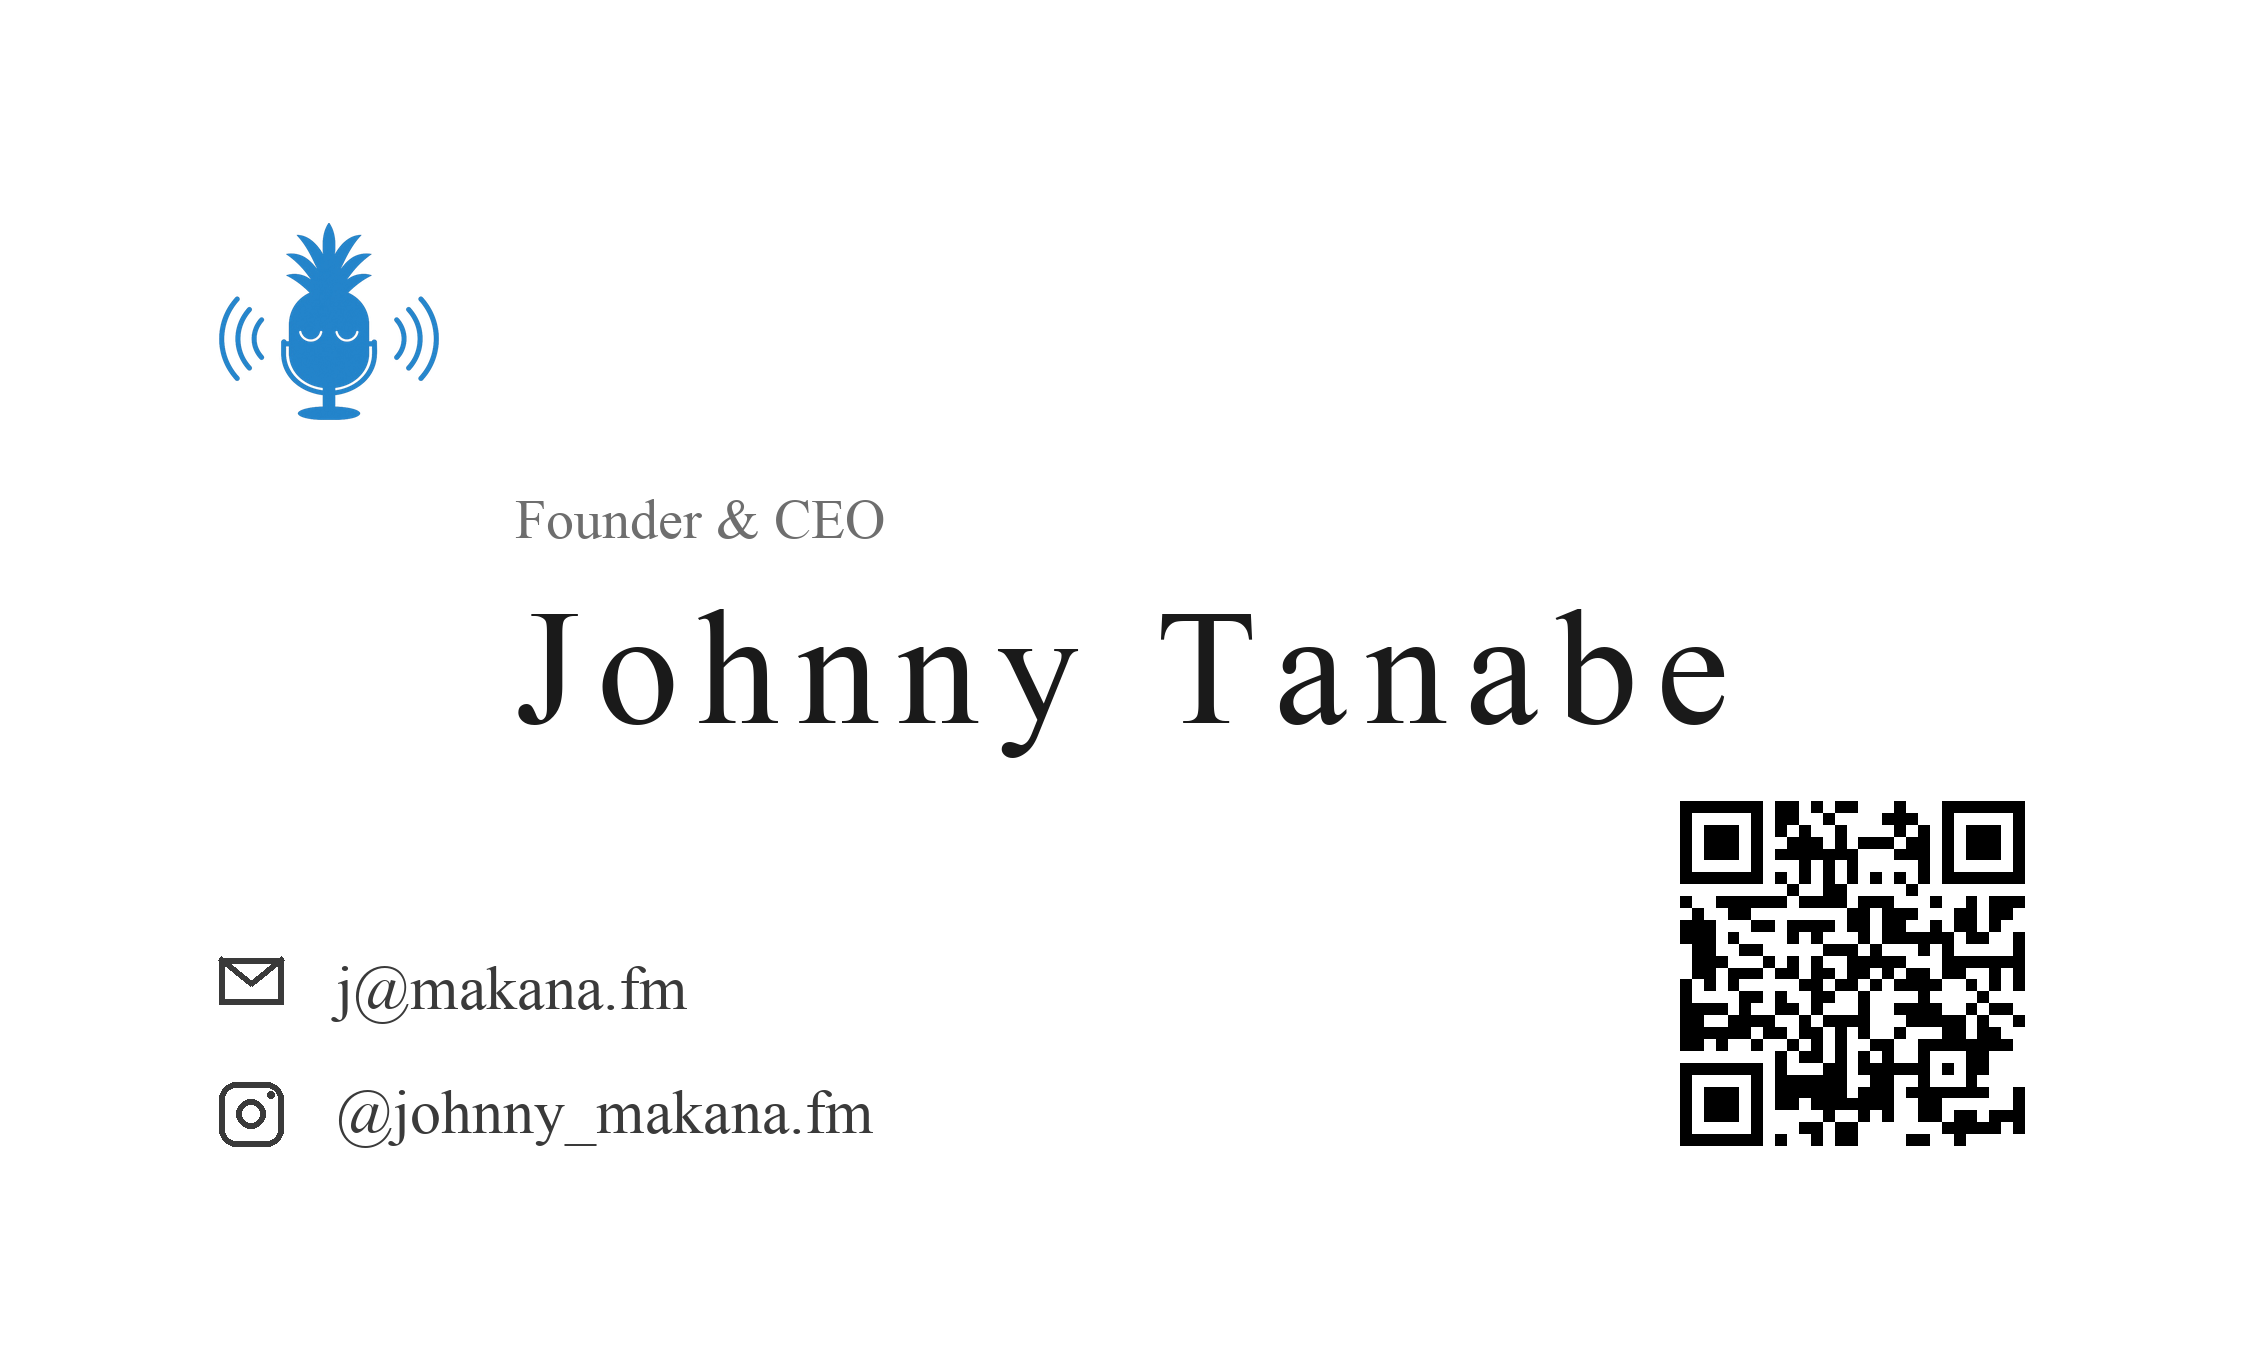
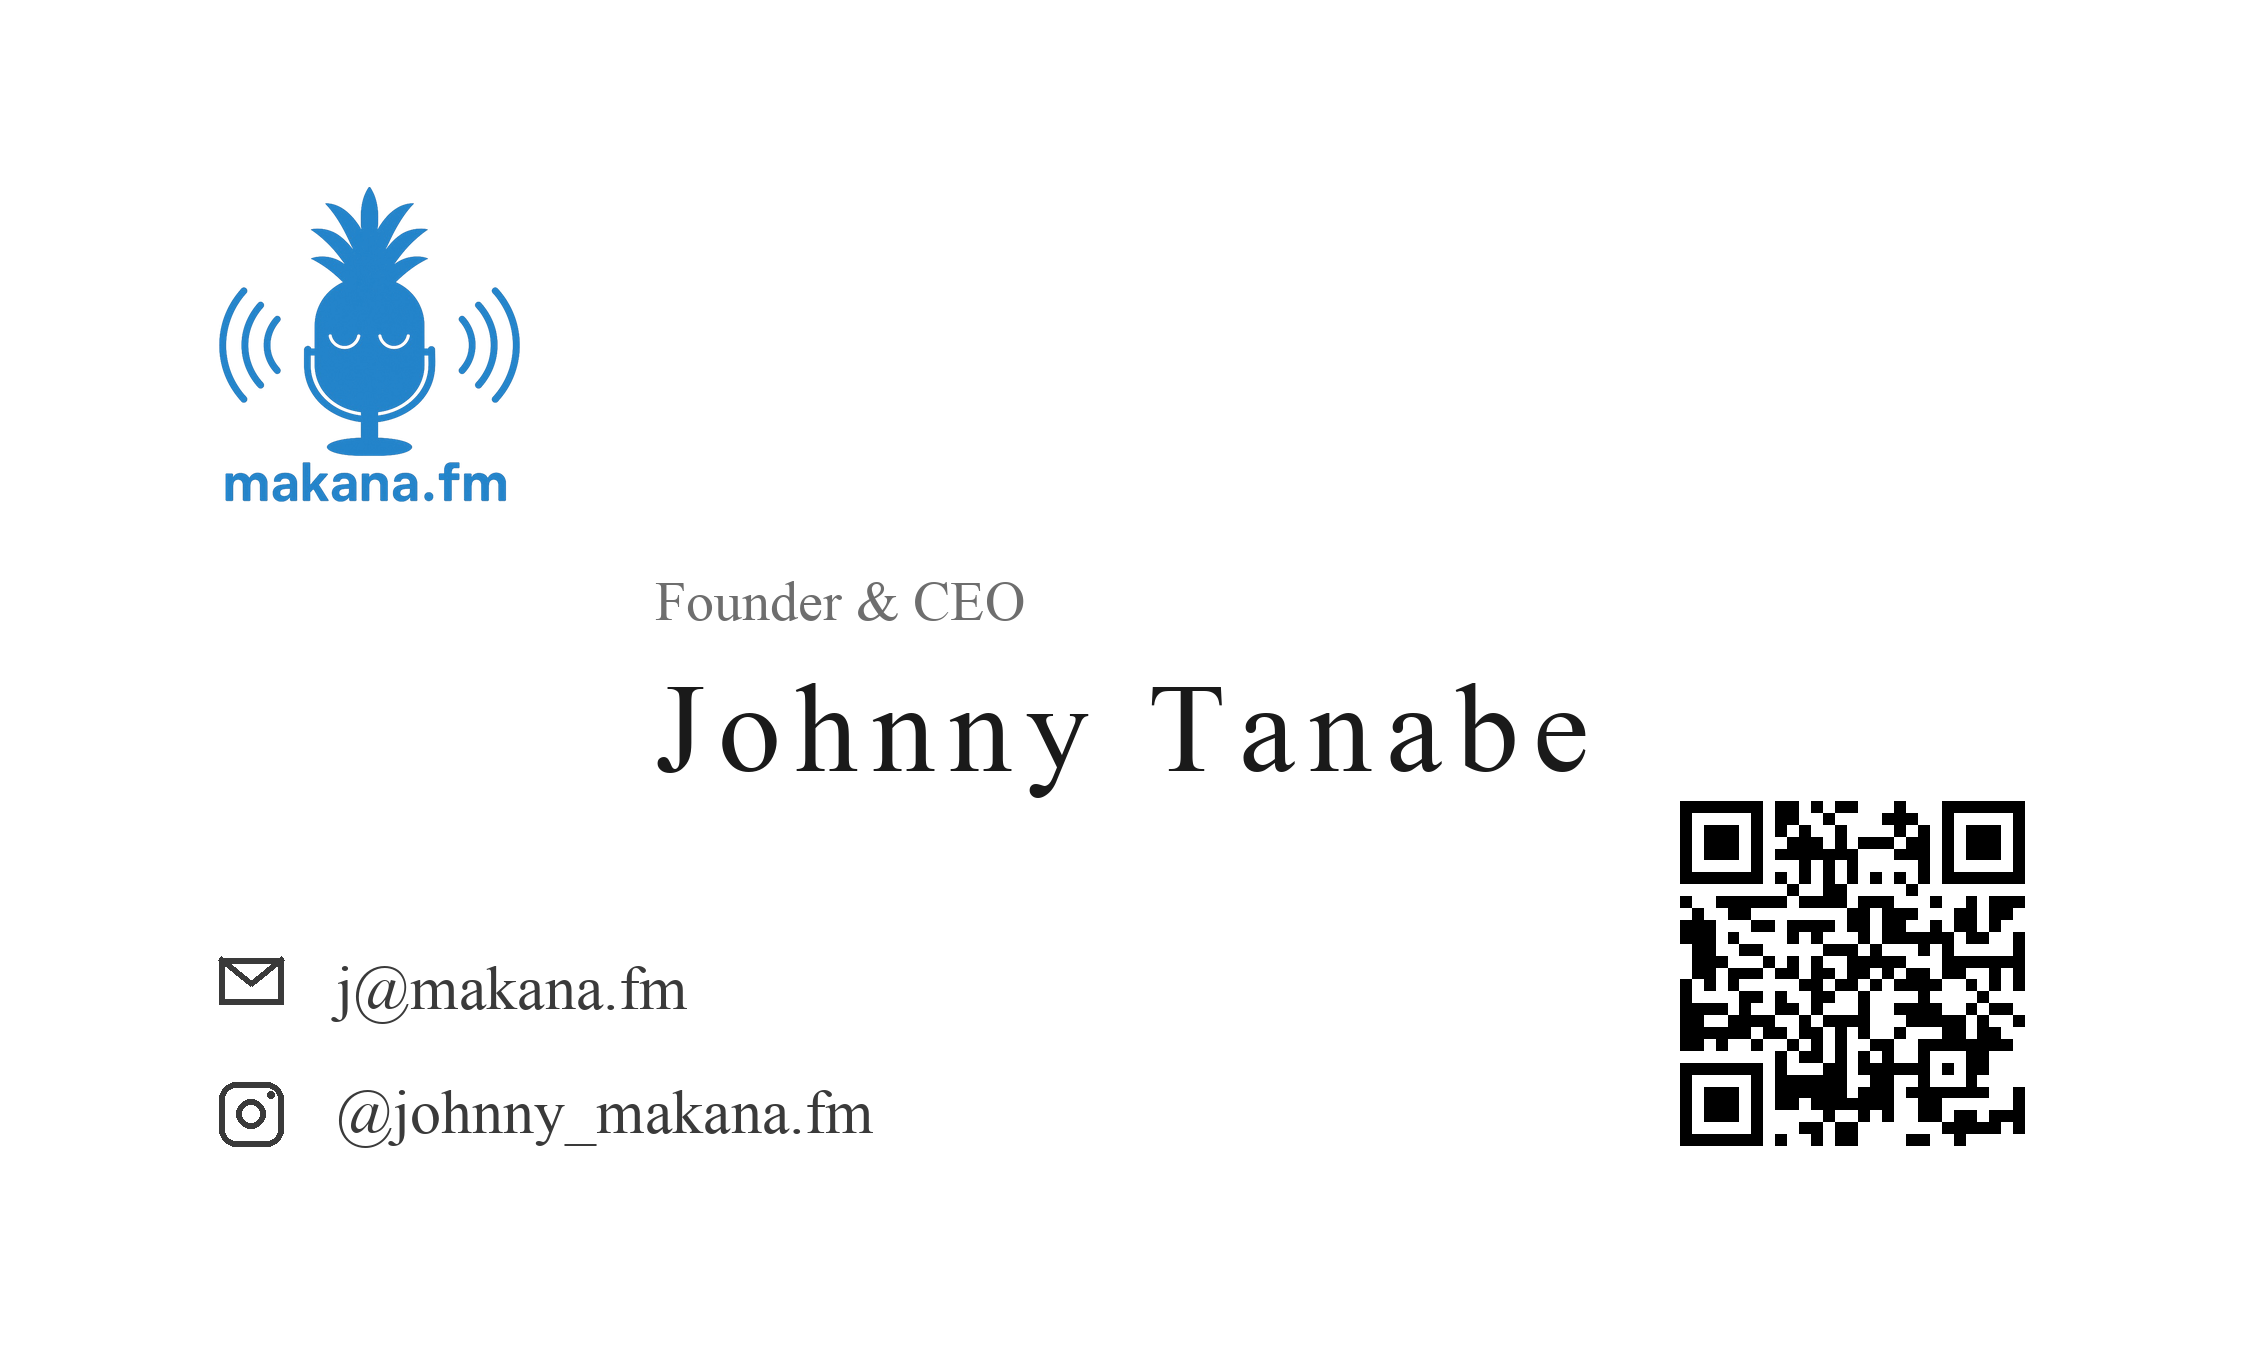
fix: restore the company wordmark on the front
Dropping to the symbol-only mark removed the company name from the front
entirely, which is not acceptable. Revert to the full logo at 12.7mm, the
smallest width where its wordmark still reads.

The name stays enlarged but at 63px rather than 82px: with the logo back
at full size the name sits in the QR's vertical band, so its right edge is
bounded by the quiet zone. 67px would leave only 0.26mm of clearance.

Records an open item: the original card uses a horizontal lockup (mark
with the wordmark beside it) that is not in this repo, so the current
artwork does not match the original logo. Needs the source file.

Changed region(s): [[0.2184, 0.4368, 0.7799, 0.5929], [0.0936, 0.1248, 0.4055, 0.4056]]

diff --git a/tools/render_card.py b/tools/render_card.py
@@ -125,16 +125,16 @@ def render_front(canvas, ox, oy):
     def Y(v):
         return oy + px(v)
 
-    # mark only, no wordmark: at 9.3mm the wordmark inside the full logo would
-    # be 1.2mm cap height and print as a smudge. The symbol alone stays crisp.
-    lg = logo(f"{REPO}/img/card/mark_blue.png", 110)
-    canvas.paste(lg, (X(74), Y(76)), lg)
+    # Full logo, wordmark included. 12.7mm is the smallest width at which the
+    # wordmark inside it still reads (1.68mm cap height); below that it smudges.
+    lg = logo(f"{REPO}/img/card/logo_blue.png", 150)
+    canvas.paste(lg, (X(74), Y(58)), lg)
 
-    f_t, f_n, f_c = font(SERIF, 28), font(SERIF, 82), font(SERIF, 31)
-    nw = tracked_w(d, NAME, f_n, px(9))
+    f_t, f_n, f_c = font(SERIF, 28), font(SERIF, 63), font(SERIF, 31)
+    nw = tracked_w(d, NAME, f_n, px(7))
     nx = ox + (px(DESIGN_W) - nw) / 2                       # name centred on the card
-    d.text((nx, Y(208)), TITLE, font=f_t, fill=GRAY)        # title on the name's left edge
-    tracked(d, nx, Y(252), NAME, f_n, px(9), NAME_INK)
+    d.text((nx, Y(249)), TITLE, font=f_t, fill=GRAY)        # title on the name's left edge
+    tracked(d, nx, Y(293), NAME, f_n, px(7), NAME_INK)
 
     icon, w = px(32), max(1, px(3))
     for i, (drawer, txt) in enumerate([(mail_icon, MAIL), (ig_icon, IG_FRONT)]):

diff --git a/docs/superpowers/specs/2026-07-25-business-card-design.md b/docs/superpowers/specs/2026-07-25-business-card-design.md
@@ -42,35 +42,39 @@
 白地。インクの上下マージンは 6.4 mm / 5.4 mm。**揃えの基準は 2 本**。
 
 - **左 74 px = 6.3 mm** — マーク、連絡先(機能の帯)
-- **氏名の左端 222 px** — 肩書き、氏名(アイデンティティの帯)
+- **氏名の左端 273 px** — 肩書き、氏名(アイデンティティの帯)
 
 | 要素 | 内容 | 書体・色 | 位置 (x, y) | サイズ |
 |---|---|---|---|---|
-| マーク | makana.fm **シンボルのみ**(青) | — | (74, 76) | 110 × 98 px = **9.3 × 8.3 mm** |
-| 肩書き | `Founder & CEO` | セリフ 28 px = 6.7 pt / `#6E6E6E` | (222, 208) | 幅 185 px = 15.7 mm |
-| 氏名 | `Johnny Tanabe` | セリフ **82 px = 19.7 pt** / `#1A1A1A`、**字間 +9 px** | (222, 252) | 幅 605 px = **51.3 mm** |
+| ロゴ | makana.fm フルロゴ(青・ワードマーク付き) | — | (74, 58) | 150 × 157 px = **12.7 × 13.3 mm** |
+| 肩書き | `Founder & CEO` | セリフ 28 px = 6.7 pt / `#6E6E6E` | (273, 249) | 幅 185 px = 15.7 mm |
+| 氏名 | `Johnny Tanabe` | セリフ **63 px = 15.1 pt** / `#1A1A1A`、**字間 +7 px** | (273, 293) | 幅 467 px = **39.6 mm** |
 | 連絡先1 | ✉ `j@makana.fm` | セリフ 31 px = 7.4 pt / `#3A3A3A` | (74, 440) | アイコン 32 px、文字 x=132 |
 | 連絡先2 | IG `@johnny_makana.fm` | 同上 | (74, 502) | 行間 62 px |
 | QR | Johnny 個人 Instagram | — | (803, 364) | 172 px = **14.6 mm** |
 
-### 表面はワードマークを使わない
+### ロゴは**ワードマーク付きのまま**変更しない
 
-表面のロゴは `mark_blue.png`(**シンボルのみ**)。フルロゴを使わないのは、**ロゴ内のワードマークがロゴ高さの 12.6% しかない**ため:
+一度シンボルのみに差し替えたが、**表面から社名が消えるため差し戻した**。フルロゴを維持する。
+
+**未解決**: 元の名刺の表面ロゴは**横並びのロックアップ**(マークの右に手書き風の `makana.fm`)だが、リポジトリにある `img/makana_fm.jpg` は**縦並び**(マークの下にワードマーク)で、書体も別物。現在の版下は縦並びを使っており、**元の名刺と一致していない**。原本の入手待ち(§8)。
+
+ロゴ幅の下限は **12.7 mm**。ロゴ内のワードマークはロゴ高さの 12.6% しかないため:
 
 | ロゴ幅 | ワードマークの高さ | |
 |---|---|---|
 | 12.7 mm | 1.68 mm = 4.8 pt | 読める下限 |
-| 9.3 mm | 1.23 mm = **3.5 pt** | 潰れる |
+| 9.3 mm | 1.23 mm = **3.5 pt** | 潰れて印刷不良に見える |
 
-氏名を主役にするにはロゴを 9.3 mm まで下げる必要があり、その大きさでは**ワードマークが印刷不良に見える**。シンボル単体なら 9.3 mm でも電波の弧まで潰れずに出る。小サイズはシンボルのみ、というロゴ運用の定石どおり。社名は `j@makana.fm` / `@johnny_makana.fm` と裏面のフルロゴで担保される。
+横並びのロックアップならワードマークが高さに対して大きく取れるので、**原本を入手できればロゴを低くしつつ社名を読ませられ、氏名をもっと大きくできる可能性がある**。
 
-### 氏名の拡大と、その上限
+### 氏名の大きさと、その上限
 
-氏名は 36.0 mm → **51.3 mm(+43%)**。色も `#3A3A3A` → `#1A1A1A` に濃くして、サイズだけでなくコントラストでも主役性を出している。
+氏名は 36.0 mm → **39.6 mm**。色も `#3A3A3A` → `#1A1A1A` に濃くして、サイズだけでなくコントラストでも主役性を補っている。
 
-上限を決めているのは **QR のクワイエットゾーン**(x ≥ 779, y ≥ 340)。氏名は QR と縦に重ならない帯(y = 252–327)にあるので右端 827 まで伸ばせるが、**氏名の下端がクワイエットゾーンの上端 340 を超えると干渉する**。現状の余裕は 13 px = 1.1 mm。これ以上大きくするなら、氏名をさらに上げるか QR を下げる必要がある。
+上限は **QR のクワイエットゾーン左端 x = 779**。氏名は QR と縦位置が重なる帯(y = 293–354)にあるため、右へ伸ばすと干渉する。現状の余裕は 1.8 mm。67 px まで上げると余裕が 0.26 mm まで詰まり危険なので 63 px に留めた。
 
-**氏名はカードの左右中央**(x=222〜827)。肩書きは中央揃えにせず、**氏名の左端に揃える**。中央から任意の px だけずらす案(40 px / 80 px も試作)は、位置が何の根拠も持たず「中央合わせを失敗した」ように見えるため不採用。氏名は QR の列より上の帯にあり、クワイエットゾーンとは 13 px = 1.1 mm 空いている。
+**氏名はカードの左右中央**(x=273〜758)。肩書きは中央揃えにせず、**氏名の左端に揃える**。中央から任意の px だけずらす案(40 px / 80 px も試作)は、位置が何の根拠も持たず「中央合わせを失敗した」ように見えるため不採用。氏名の右端と QR のクワイエットゾーン左端(x=779)は 1.8 mm 空いている。
 
 ### 改訂前からの変更
 
@@ -79,9 +83,9 @@
 3. Instagram ハンドルを `@makana.fm` → **`@johnny_makana.fm`**(個人アカウント)に変更。
 4. 揃えの基準を 4 本(ロゴ70/罫線93/アイコン120/肩書き168)から 2 本に整理。
 5. 氏名をカード左右中央へ移動。
-6. ロゴを 15.1 mm → **9.3 mm のシンボルのみ**に変更(上記)。
+6. ロゴを 15.1 mm → **12.7 mm** に縮小(ワードマークは維持。下限の根拠は上記)。
 7. 氏名の下にあった**罫線を削除**。空いた縦分は全体の縦位置の再配分に回した。
-8. 氏名を 13.4 pt → **19.7 pt** に拡大し、色を濃くした。
+8. 氏名を 13.4 pt → **15.1 pt** に拡大し、色を `#3A3A3A` → `#1A1A1A` に濃くした。
 
 表面の QR は**地色が白なのでクワイエットゾーンが紙と同化し、白パネルが不要**。裏面のような白い枠は付けない。ただし QR の四辺 **2.0 mm 以内には何も置かない**こと。
 
@@ -174,8 +178,8 @@ Canva を経由せず、`tools/render_card.py` が設計値どおりの印刷用
 
 | 案 | 不採用の理由 |
 |---|---|
-| 表面にフルロゴ(ワードマーク付き)を残す | ロゴを 9.3 mm まで縮めないと氏名を主役にできず、その大きさではワードマークが 3.5 pt で潰れる。氏名の大きさをロゴ内の文字に差し出す形になり割に合わない |
-| 氏名 59.2 mm(ロゴ 8.1 mm) | 氏名がカード幅の 66% を占めて過剰。左右余白 14.9 mm、連絡先ブロックとの重量差も開きすぎる |
+| 表面をシンボルのみにして氏名 51.3 mm | 一度採用したが**表面から社名が消える**ため差し戻し。ロゴはワードマーク付きを維持する |
+| 氏名 67 px(42.7 mm) | QR のクワイエットゾーンとの余裕が 0.26 mm しか残らず、断裁・刷りのブレで干渉する危険がある |
 | 裏面を白地(表と統一) | 2面とも白だと裏が「余りページ」に見える。ベタ塗りで反転させた方が2面のリズムが出る |
 | 裏面 白＋青帯(ハイブリッド) | 中央が間延びしやすい |
 | 裏面 左右分割 / 対角 | 中央上ロゴ＋中央下QR2つという希望構成に合わない |
@@ -194,5 +198,6 @@ Canva を経由せず、`tools/render_card.py` が設計値どおりの印刷用
 
 - [ ] **試し刷りで QR 3 つすべてを実機スキャン**して確認する。名刺は刷り直しが効かないため必須。
 - [ ] 校正刷りで裏面のラベル(7.2 pt 白抜きレギュラー、字画約 0.18 mm)が痩せていないか確認する。一般的なオフセット印刷が保持できるのは 0.15 mm 前後でマージンは大きくないため、**痩せて見えたらボールドに切り替える**。
+- [ ] **元の名刺で使っている横並びロゴの原本(SVG / PNG / AI)を入手する。** 現在の版下は縦並びの `img/makana_fm.jpg` を使っており、元の名刺とロゴのロックアップも書体も違う。原本があれば表面を元どおりにでき、氏名をさらに大きくできる可能性もある。
 - [ ] 印刷所・用紙の選定(マット系)。
 - [ ] 生成した QR を**スキャンして、開いたページが意図した行き先かを目視確認**する。URL 3 つは本人確認済みだが、QR は中身が読めないため、生成時の打ち間違いは刷り上がるまで気づけない。
